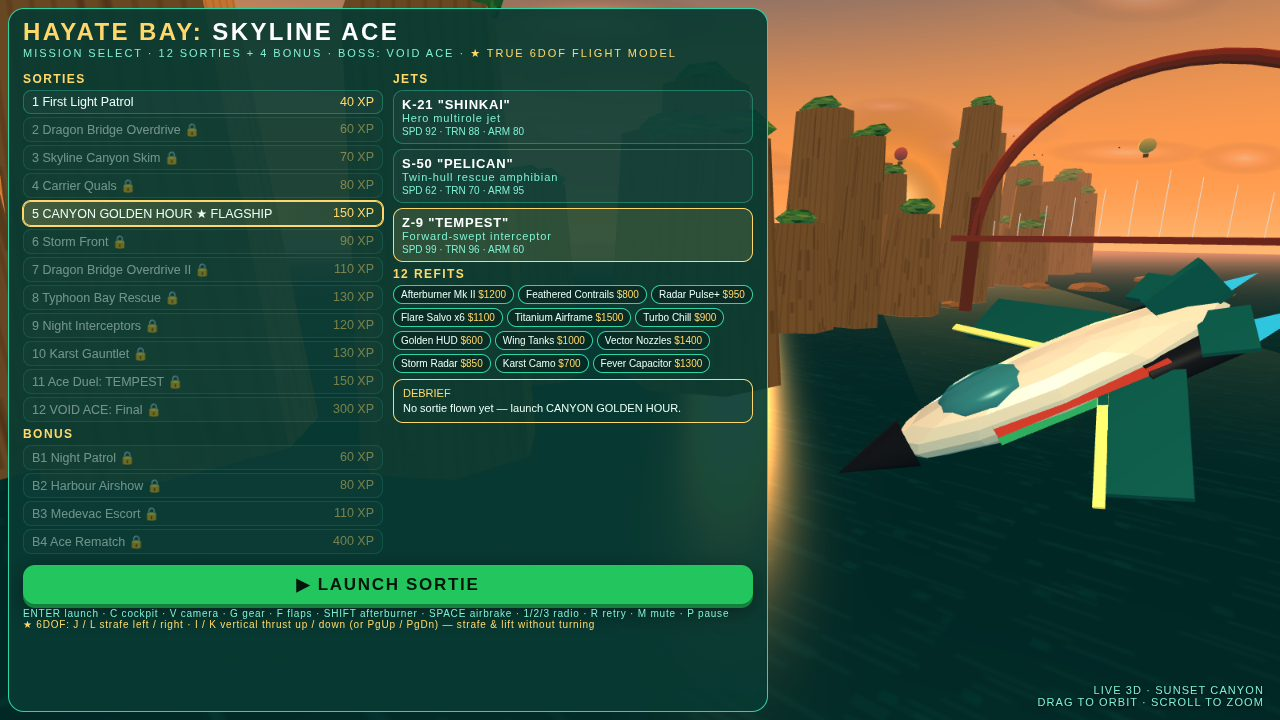
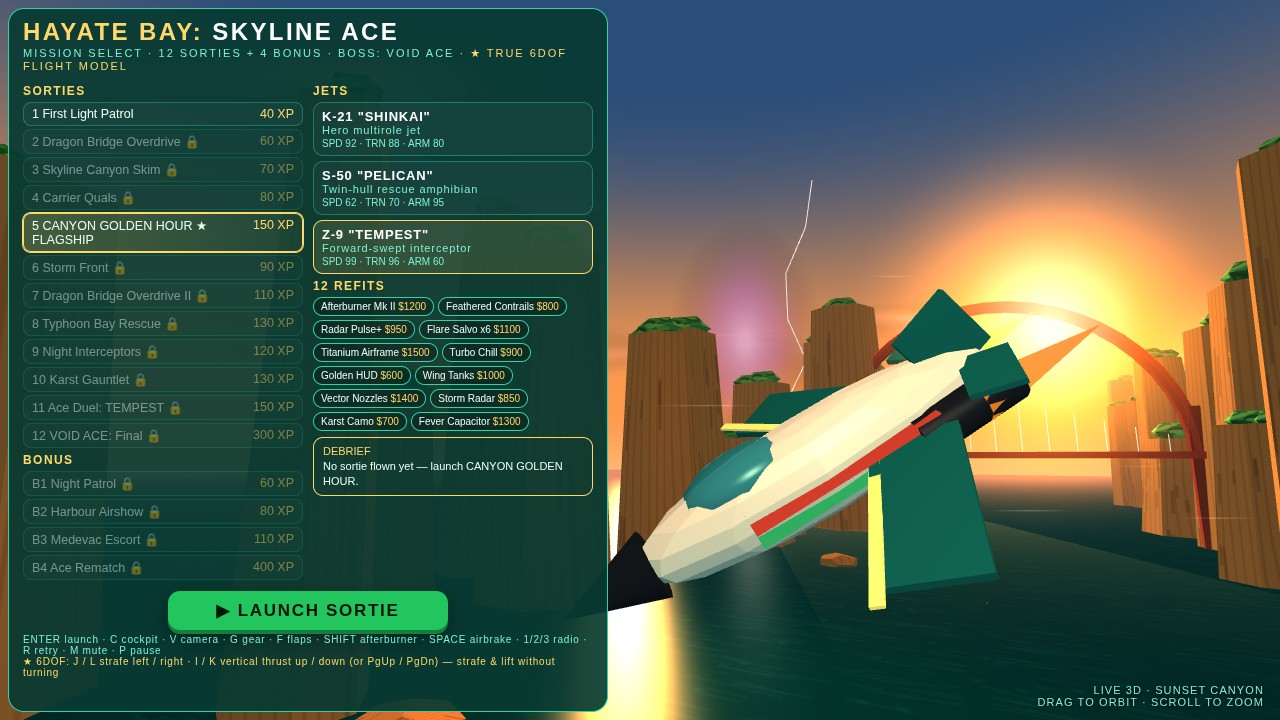
Fix menu cover: narrower panel, reframed hero jet, epic busy menu (afterburner, lightning, wind streaks, sun glow)
- Panel 760px -> 600px (47% of frame, like the reference) and LAUNCH
  becomes a centered pill instead of a full-width green slab, so the
  cover is no longer a green wall; all 12 sorties + 4 bonus + jets +
  refits + LAUNCH still fully visible at 1280x720
- Menu camera reframed: closer (r 62-66), aimed up so more orange
  sunset shows, jet scale 2.9-3.1, fully in frame, 3/4 front nose
  down-left, ~40% of frame
- Busy/epic menu: orange afterburner flames + flickering glow sprite
  on the menu jet, warm rim light, big sun halo (fake bloom), 36
  wind streak sprites streaming past, lightning every 6-11s in the
  sunset sky (held bolt for the ?shot=menu still)
- Menu-only effects are hidden on launch; flight rendering untouched
- Mean color of 1-menu.jpg: (54,80,59) -> (71,92,76), sky region now
  warm orange; 0 console errors

diff --git a/game/src/main.js b/game/src/main.js
@@ -1,6 +1,6 @@
 // HAYATE BAY: SKYLINE ACE — main game. Three.js (global THREE), procedural everything.
 import { JETS, REFITS, SORTIES, BONUS, RADIO, CONTACTS, rankFor, RANK_NAMES } from './data.js';
-import { World } from './world.js';
+import { World, glowTexture } from './world.js';
 import { AudioEngine } from './audio.js';
 
 const T = window.THREE;
@@ -43,7 +43,7 @@ const keys = {};
 let mouseDown = false, mouseDX = 0, mouseDY = 0;
 
 const audio = new AudioEngine();
-let renderer, scene, camera, world, jetMesh, menuJet, menuLight, trail, particlePoints, particleGeo, rainPoints, rainGeo, smokePoints, smokeGeo;
+let renderer, scene, camera, world, jetMesh, menuJet, menuLight, menuRim, menuSunGlow, windStreaks, trail, particlePoints, particleGeo, rainPoints, rainGeo, smokePoints, smokeGeo;
 let routePoints = [];
 const tmpV = new T.Vector3(), tmpV2 = new T.Vector3();
 
@@ -60,9 +60,15 @@ function init() {
   world = new World(scene);
   setLoad(45, 'Painting the sunset…');
   buildParticles(); buildRain(); buildTrail(); buildSmoke();
-  menuJet = world.buildJet(S.jetId); menuJet.position.set(20, 70, 320); menuJet.scale.set(2.6,2.6,2.6); scene.add(menuJet);
+  menuJet = world.buildJet(S.jetId); menuJet.position.set(6, 74, 320); menuJet.scale.set(3.1,3.1,3.1); scene.add(menuJet); decorateMenuJet();
   // warm fill light from the camera side so the menu jet's flank reads (sun is behind it)
-  menuLight = new T.PointLight(0xffd9a0, 1.8, 260); menuLight.position.set(70, 120, 430); scene.add(menuLight);
+  menuLight = new T.PointLight(0xffd9a0, 2.2, 260); menuLight.position.set(70, 120, 430); scene.add(menuLight);
+  // hot orange rim light from behind-left so the jet's far edges glow against the sunset
+  menuRim = new T.PointLight(0xff7a30, 1.8, 240); menuRim.position.set(-70, 100, 180); scene.add(menuRim);
+  // big warm sun halo in the menu camera's view (upper right) — fake bloom for the cover
+  menuSunGlow = new T.Sprite(new T.SpriteMaterial({ map: glowTexture('rgba(255,240,190,1)', 'rgba(255,150,50,.8)'), transparent: true, opacity: 0.32, depthWrite: false, blending: T.AdditiveBlending, fog: false }));
+  menuSunGlow.scale.set(420, 420, 1); menuSunGlow.position.set(330, 210, -1050); scene.add(menuSunGlow);
+  buildWindStreaks();
   jetMesh = world.buildJet(S.jetId); jetMesh.visible = false; jetMesh.scale.set(1.25, 1.25, 1.25); scene.add(jetMesh);
   buildMenu(); applyWeather('golden'); updateClock();
   setLoad(80, 'Warming engines…');
@@ -74,6 +80,31 @@ function init() {
   if (SHOT) setupShot(SHOT);
   else if (AUTOPLAY) { setTimeout(() => { selectSortie(5); launch(); }, 600); }
   requestAnimationFrame(loop);
+}
+function decorateMenuJet() {
+  // afterburner: orange flames + a hot glow sprite at the tail, flickered in updateCamera
+  menuJet.traverse(o => { if (o.name === 'flame') { o.scale.set(1.25, 1.7, 1.25); o.material.color.set(0xff8a2a); } });
+  if (menuJet.userData.abGlow) menuJet.remove(menuJet.userData.abGlow);
+  const ab = new T.Sprite(new T.SpriteMaterial({ map: glowTexture('rgba(255,240,180,1)', 'rgba(255,120,20,.7)'), transparent: true, opacity: 0.9, depthWrite: false, blending: T.AdditiveBlending }));
+  ab.scale.set(17, 17, 1); ab.position.set(0, -0.35, 8.8); menuJet.add(ab); menuJet.userData.abGlow = ab;
+}
+function buildWindStreaks() {
+  // fast horizontal speed-lines streaming past the menu jet — the cover should feel windy/busy
+  const c = document.createElement('canvas'); c.width = 128; c.height = 16;
+  const g = c.getContext('2d'); const gr = g.createLinearGradient(0, 0, 128, 0);
+  gr.addColorStop(0, 'rgba(255,255,255,0)'); gr.addColorStop(0.5, 'rgba(255,230,190,.9)'); gr.addColorStop(1, 'rgba(255,255,255,0)');
+  g.fillStyle = gr; g.fillRect(0, 6, 128, 4);
+  const tex = new T.CanvasTexture(c);
+  windStreaks = [];
+  for (let i = 0; i < 36; i++) {
+    const s = new T.Sprite(new T.SpriteMaterial({ map: tex, transparent: true, opacity: 0.28 + Math.random() * 0.2, depthWrite: false, blending: T.AdditiveBlending }));
+    s.scale.set(26 + Math.random() * 22, 1.6 + Math.random() * 1.4, 1);
+    s.position.set(-220 + Math.random() * 520, 25 + Math.random() * 195, 350 - Math.random() * 1050);
+    s.userData.vx = -(110 + Math.random() * 90); scene.add(s); windStreaks.push(s);
+  }
+}
+function updateWindStreaks(dt) {
+  for (const s of windStreaks) { s.position.x += s.userData.vx * dt; if (s.position.x < -240) { s.position.x = 300 + Math.random() * 40; s.position.y = 25 + Math.random() * 195; s.position.z = 350 - Math.random() * 1050; } }
 }
 function buildParticles() {
   particleGeo = new T.BufferGeometry();
@@ -168,7 +199,7 @@ function toggleRefit(r, btn) {
 }
 function selectJet(id) {
   S.jetId = id; save.jet = id; persist();
-  scene.remove(menuJet); menuJet = world.buildJet(id); menuJet.position.set(20, 70, 320); menuJet.scale.set(2.6,2.6,2.6); scene.add(menuJet);
+  scene.remove(menuJet); menuJet = world.buildJet(id); menuJet.position.set(6, 74, 320); menuJet.scale.set(3.1,3.1,3.1); scene.add(menuJet); decorateMenuJet();
   scene.remove(jetMesh); jetMesh = world.buildJet(id); jetMesh.visible = false; jetMesh.scale.set(1.25, 1.25, 1.25); scene.add(jetMesh);
   $('jetName').textContent = JETS[id].short;
 }
@@ -258,6 +289,9 @@ function launch(force) {
   if (!force && !isUnlocked(s)) { toast('Sortie locked — clear the previous one first'); return; }
   clearCrashFx();
   if (menuLight) menuLight.visible = false;
+  if (menuRim) menuRim.visible = false;
+  if (menuSunGlow) menuSunGlow.visible = false;
+  if (windStreaks) for (const s of windStreaks) s.visible = false;
   S.sortie = s; S.mode = 'flying'; S.crashed = false; S.stageIdx = 0; S.stageDone = 0;
   S.shotChase = false; S.chaseDist = 16; S.lookAhead = 18; S.chaseH = 6.5; S.slowmo = 0;
   S.score = 0; S.scoreShown = 0; S.scoreTarget = 0; S.fever = 10; S.heat = 0; S.fuel = 100;
@@ -722,6 +756,9 @@ function retry() {
 function backToMenu() {
   clearCrashFx();
   if (menuLight) menuLight.visible = true;
+  if (menuRim) menuRim.visible = true;
+  if (menuSunGlow) menuSunGlow.visible = true;
+  if (windStreaks) for (const s of windStreaks) s.visible = true;
   S.mode = 'menu'; S.crashed = false; S.slowmo = 0;
   $('hud').style.display = 'none'; $('cockpit').style.display = 'none'; $('endScreen').style.display = 'none';
   $('menu').style.display = 'flex'; $('menuHint').style.display = 'block';
@@ -836,11 +873,16 @@ function drawRadar() {
 function updateCamera(dt) {
   if (S.mode === 'menu') {
     // fixed hero angle: the jet never drifts into a rear view — 3/4 front, nose down-left, wings spread, big on the right
-    const r = 82 + S.orbitDrag;
-    camera.position.set(Math.sin(S.menuAngle) * r, 88 + Math.sin(S.time * 0.2) * 4, 320 + Math.cos(S.menuAngle) * r);
-    camera.lookAt(-40, 66, 320);
+    const r = 64 + S.orbitDrag;
+    camera.position.set(Math.sin(S.menuAngle) * r, 76 + Math.sin(S.time * 0.2) * 4, 320 + Math.cos(S.menuAngle) * r);
+    camera.lookAt(-14, 88, 320);
     menuJet.rotation.set(-0.55, 2.05, 0.45 + Math.sin(S.time * 0.5) * 0.04, 'YXZ'); // nose down-left, tail up-right, diagonal like the reference
-    menuJet.position.y = 70 + Math.sin(S.time * 0.8) * 3;
+    menuJet.position.y = 74 + Math.sin(S.time * 0.8) * 3;
+    // afterburner flicker
+    if (menuJet.userData.abGlow) { const f = 1 + Math.sin(S.time * 13) * 0.12 + Math.sin(S.time * 29) * 0.06; menuJet.userData.abGlow.scale.set(17 * f, 17 * f, 1); }
+    // wind streaks streaming past + occasional lightning in the sunset sky
+    if (windStreaks) updateWindStreaks(dt);
+    S.lightningTimer -= dt; if (S.lightningTimer <= 0) { S.lightningTimer = 6 + Math.random() * 5; world.strikeLightning(-120 + Math.random() * 240, -350 - Math.random() * 250); }
     return;
   }
   if (S.crashed) {
@@ -898,7 +940,10 @@ function loop(now) {
 // ---------- shot modes (for screenshots) ----------
 function setupShot(shot) {
   setTimeout(() => {
-    if (shot === 'menu') { /* menu is default */ }
+    if (shot === 'menu') {
+      // cover: hold a lightning bolt in the sunset sky so the still catches it; pause the menu lightning timer meanwhile
+      world.holdLightning = true; world.strikeLightning(-180, -450); world.flashLight.intensity = 0.7; S.lightningTimer = 30;
+    }
     else if (shot === 'storm') {
       // ref 2: big banking jet, rings 1-2-3 ahead, lightning held in frame, +750 banner
       selectSortie(6); launch(true); S.pos.set(-20, 110, 420); S.yaw = 0; S.speed = 200; S.fever = 82; S.feverMult = 8;

diff --git a/game/index.html b/game/index.html
@@ -22,7 +22,7 @@ button{font-family:inherit;cursor:pointer}
 #flash{position:fixed;inset:0;z-index:25;pointer-events:none;background:radial-gradient(circle,rgba(255,240,200,.95),rgba(255,120,20,.75));opacity:0}
 /* ---------- MENU ---------- */
 #menu{position:fixed;inset:0;z-index:20;display:flex;pointer-events:none}
-#menuPanel{pointer-events:auto;width:min(760px,94vw);max-height:calc(100vh - 16px);overflow-y:auto;margin:8px;background:var(--teal2);border:1px solid var(--line);border-radius:16px;padding:10px 14px}
+#menuPanel{pointer-events:auto;width:min(600px,94vw);max-height:calc(100vh - 16px);overflow-y:auto;margin:8px;background:var(--teal2);border:1px solid var(--line);border-radius:16px;padding:10px 14px}
 #menuPanel h1{font-size:24px;color:var(--gold);letter-spacing:.1em;line-height:1.05}
 #menuPanel h1 span{color:#fff}
 #menuSub{color:var(--mint);font-size:11px;letter-spacing:.18em;margin:3px 0 7px}
@@ -44,7 +44,7 @@ button{font-family:inherit;cursor:pointer}
 .pill.on{background:var(--green);color:#04150a;border-color:var(--green);font-weight:700}
 .pill .pr{color:var(--gold)}
 #debrief{border:1px solid var(--gold);border-radius:10px;padding:6px 9px;margin-top:6px;font-size:11px;line-height:1.35}
-#launch{width:100%;margin-top:8px;padding:9px;font-size:17px;font-weight:800;letter-spacing:.1em;color:#04150a;background:var(--green);border:0;border-radius:12px;box-shadow:0 4px 0 #15803d,0 8px 22px rgba(0,0,0,.4)}
+#launch{width:auto;min-width:280px;display:block;margin:8px auto 0;padding:9px 28px;font-size:17px;font-weight:800;letter-spacing:.1em;color:#04150a;background:var(--green);border:0;border-radius:12px;box-shadow:0 4px 0 #15803d,0 8px 22px rgba(0,0,0,.4)}
 #launch:hover{filter:brightness(1.12)}
 #launch:active{transform:translateY(3px);box-shadow:0 3px 0 #15803d}
 #menuHint{position:fixed;right:16px;bottom:12px;z-index:21;color:var(--mint);font-size:11px;letter-spacing:.1em;text-align:right;text-shadow:0 1px 4px #000}
